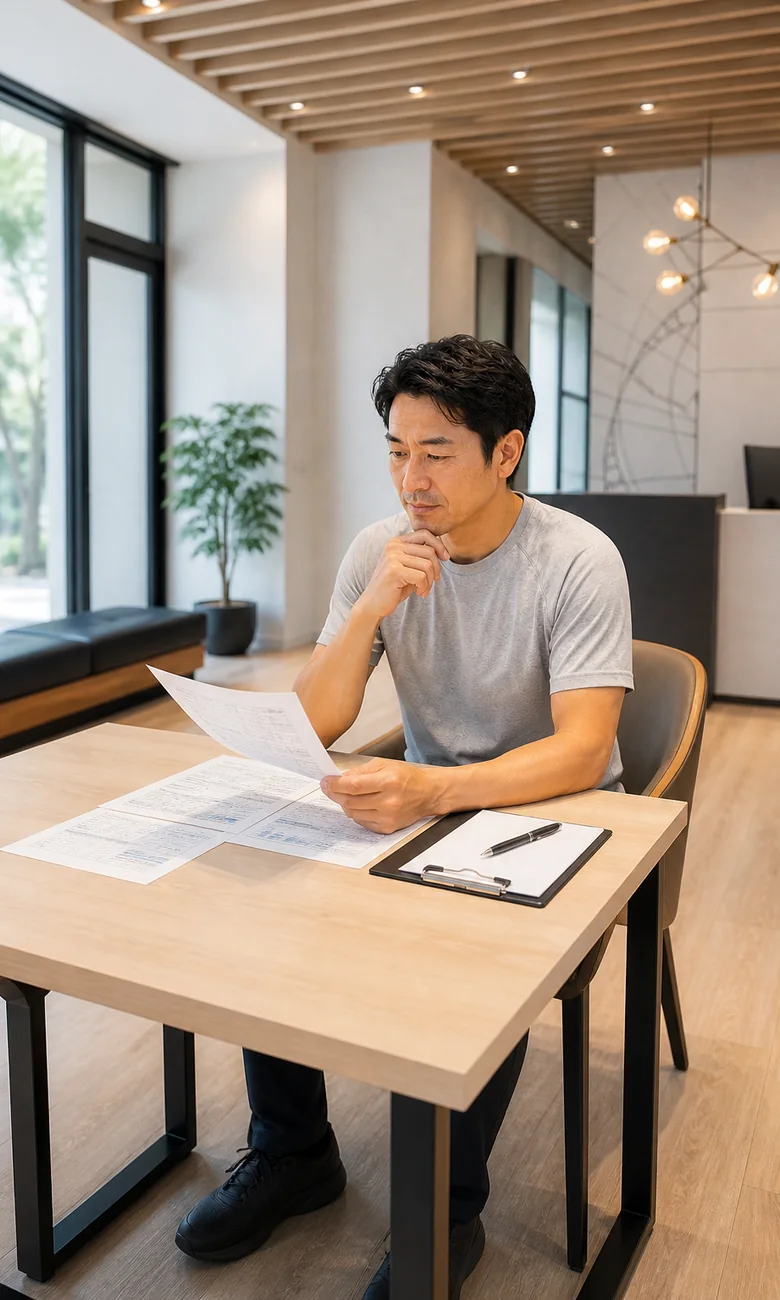
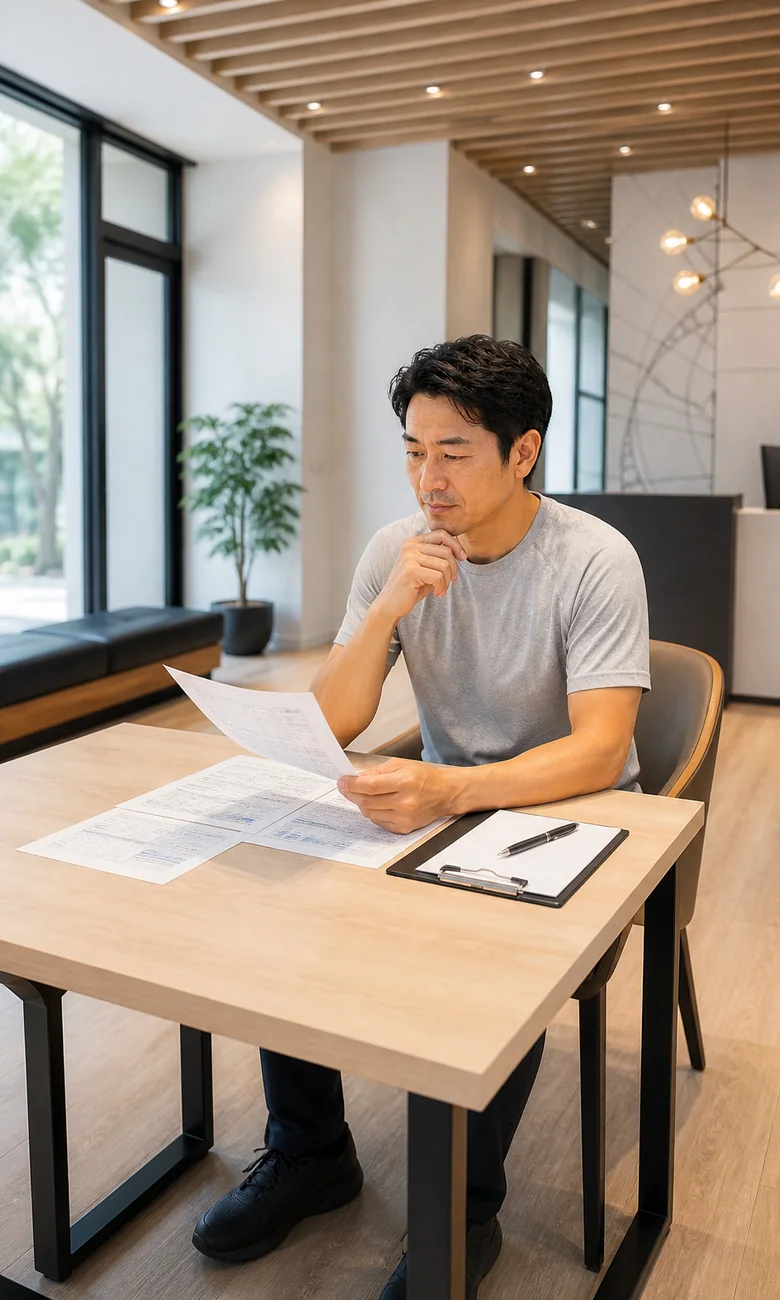
Use selected male Power Plate and health card images

diff --git a/index.html b/index.html
@@ -291,7 +291,7 @@
               </div>
               <div class="concept__image">
                 <img
-                  src="lp-medical-fitness/img/mf-male-concept-powerplate-active-20260811.webp?v=20260811-active-powerplate-v1"
+                  src="lp-medical-fitness/img/mf-male-concept-powerplate-active-20260811.webp?v=20260811-selected-powerplate-v2"
                   alt="男性クライアントが専門スタッフと低負荷運動を確認する様子"
                   width="1200"
                   height="800"
@@ -330,7 +330,7 @@
             <div class="problem__content animated__fadeIn --delay0">
               <div class="problem__content-image">
                 <img
-                  src="lp-medical-fitness/img/mf-male-problem-health-numbers-wide-20260811.webp?v=20260811-problem-pulled-back-v1"
+                  src="lp-medical-fitness/img/mf-male-problem-health-numbers-wide-20260811.webp?v=20260811-selected-health-v2"
                   alt="健診結果を確認しながら健康数値を気にする男性"
                   width="780"
                   height="1300"
@@ -547,7 +547,7 @@
               </div>
               <div class="feature__content-image">
                 <img
-                  src="lp-medical-fitness/img/mf-male-feature-powerplate-active-20260811.webp?v=20260811-active-powerplate-v1"
+                  src="lp-medical-fitness/img/mf-male-feature-powerplate-active-20260811.webp?v=20260811-selected-powerplate-v2"
                   alt="男性クライアントが低負荷運動を安全に確認する様子"
                   width="1320"
                   height="550"
